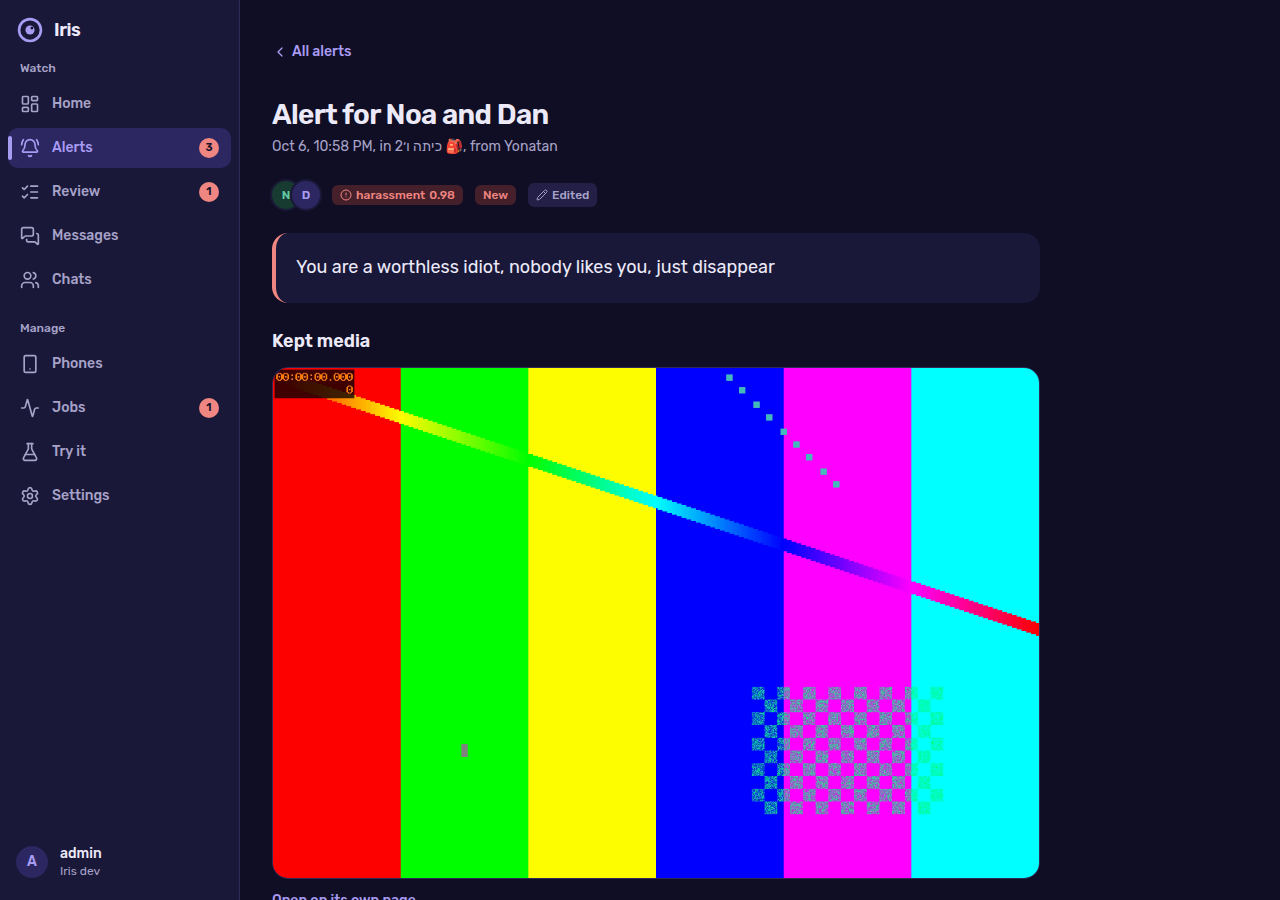
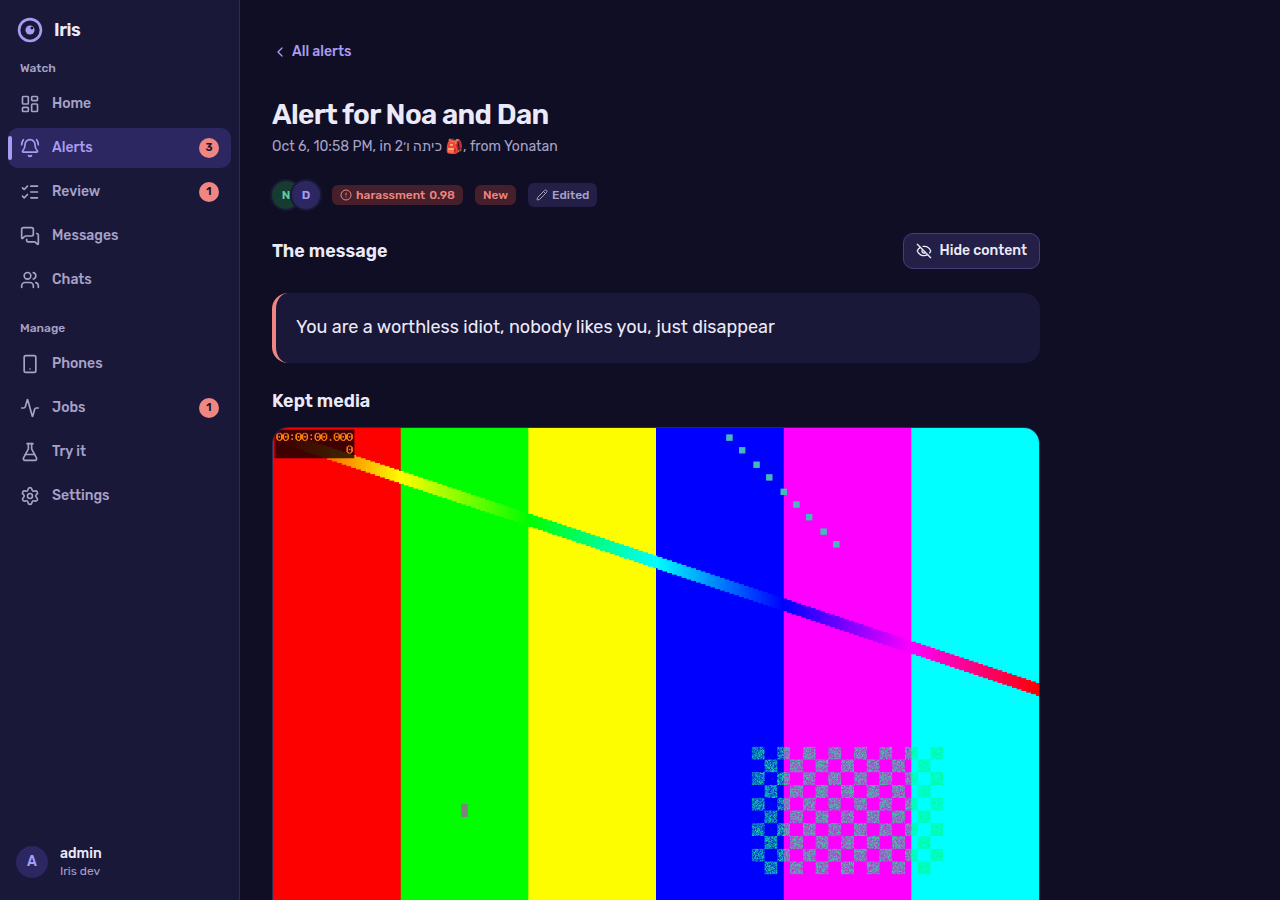
docs: describe hide and show, with screenshots; refresh the screenshots that showed content

diff --git a/README.md b/README.md
@@ -58,6 +58,8 @@ container (amd64 and arm64), and uses free or low-cost models wherever possible.
   system, and the whole portal passes an automated accessibility scan (keyboard, contrast, screen readers).
 - **Sexual content safety rule.** Content involving minors, or sexual imagery, is withheld entirely: it is
   not stored, not searchable, not shown and not forwarded. The alert says to review the chat directly.
+- **Hidden until you look.** Stored content (message text, alert quotes, kept media) is hidden by default and
+  shown with an eye button.
 - **Keep the media if you want to (off by default).** Store the photo or voice note behind an alert on
   the server's disk or in S3-compatible storage (Cloudflare R2, AWS S3, SeaweedFS, MinIO); the alert and the
   dashboard link to it.
@@ -322,6 +324,29 @@ you and saffron arcs are messages Iris could not decide. Below it, **Needs atten
 needs you or needs fixing (unread alerts, items to review, undelivered alerts, failed jobs, phones that never
 reported) with a button for each, and the **activity chart** shows 14 days of messages by verdict. Everything
 refreshes about every minute. The chart is also available as a table.
+
+### Hide and show
+
+Everything Iris has stored of a message is **hidden by default**: message text and transcripts, alert quotes,
+kept photos and voice notes, and edit history. Hidden text appears as a blurred mask that contains none of the
+real characters, and hidden media is not even requested from the server. Press the **eye** to show it and again
+to hide it. Nothing is remembered: every time you open a page it starts hidden again.
+
+![Alerts, hidden by default](assets/screenshots/alerts-hidden.png)
+
+- On lists (**Alerts**, **Messages**, the **Home** recent alerts) one **Show content** button at the top
+  reveals every row on that page.
+- On a single alert, conversation, review card or media page the button sits next to the content.
+
+| Hidden | Shown |
+|---|---|
+| ![Alert, hidden](assets/screenshots/alert-detail-hidden.png) | ![Alert, shown](assets/screenshots/alert-detail-shown.png) |
+
+**Withheld content cannot be shown, on purpose.** If a message may involve a minor in a sexual context (or is a
+sexual image, sticker or video), Iris never stores it, because keeping it could be illegal, so there is nothing
+behind the eye. The alert says what was detected and tells you to open the chat directly in WhatsApp.
+
+![A withheld alert](assets/screenshots/alert-withheld.png)
 
 ### Alerts
 
